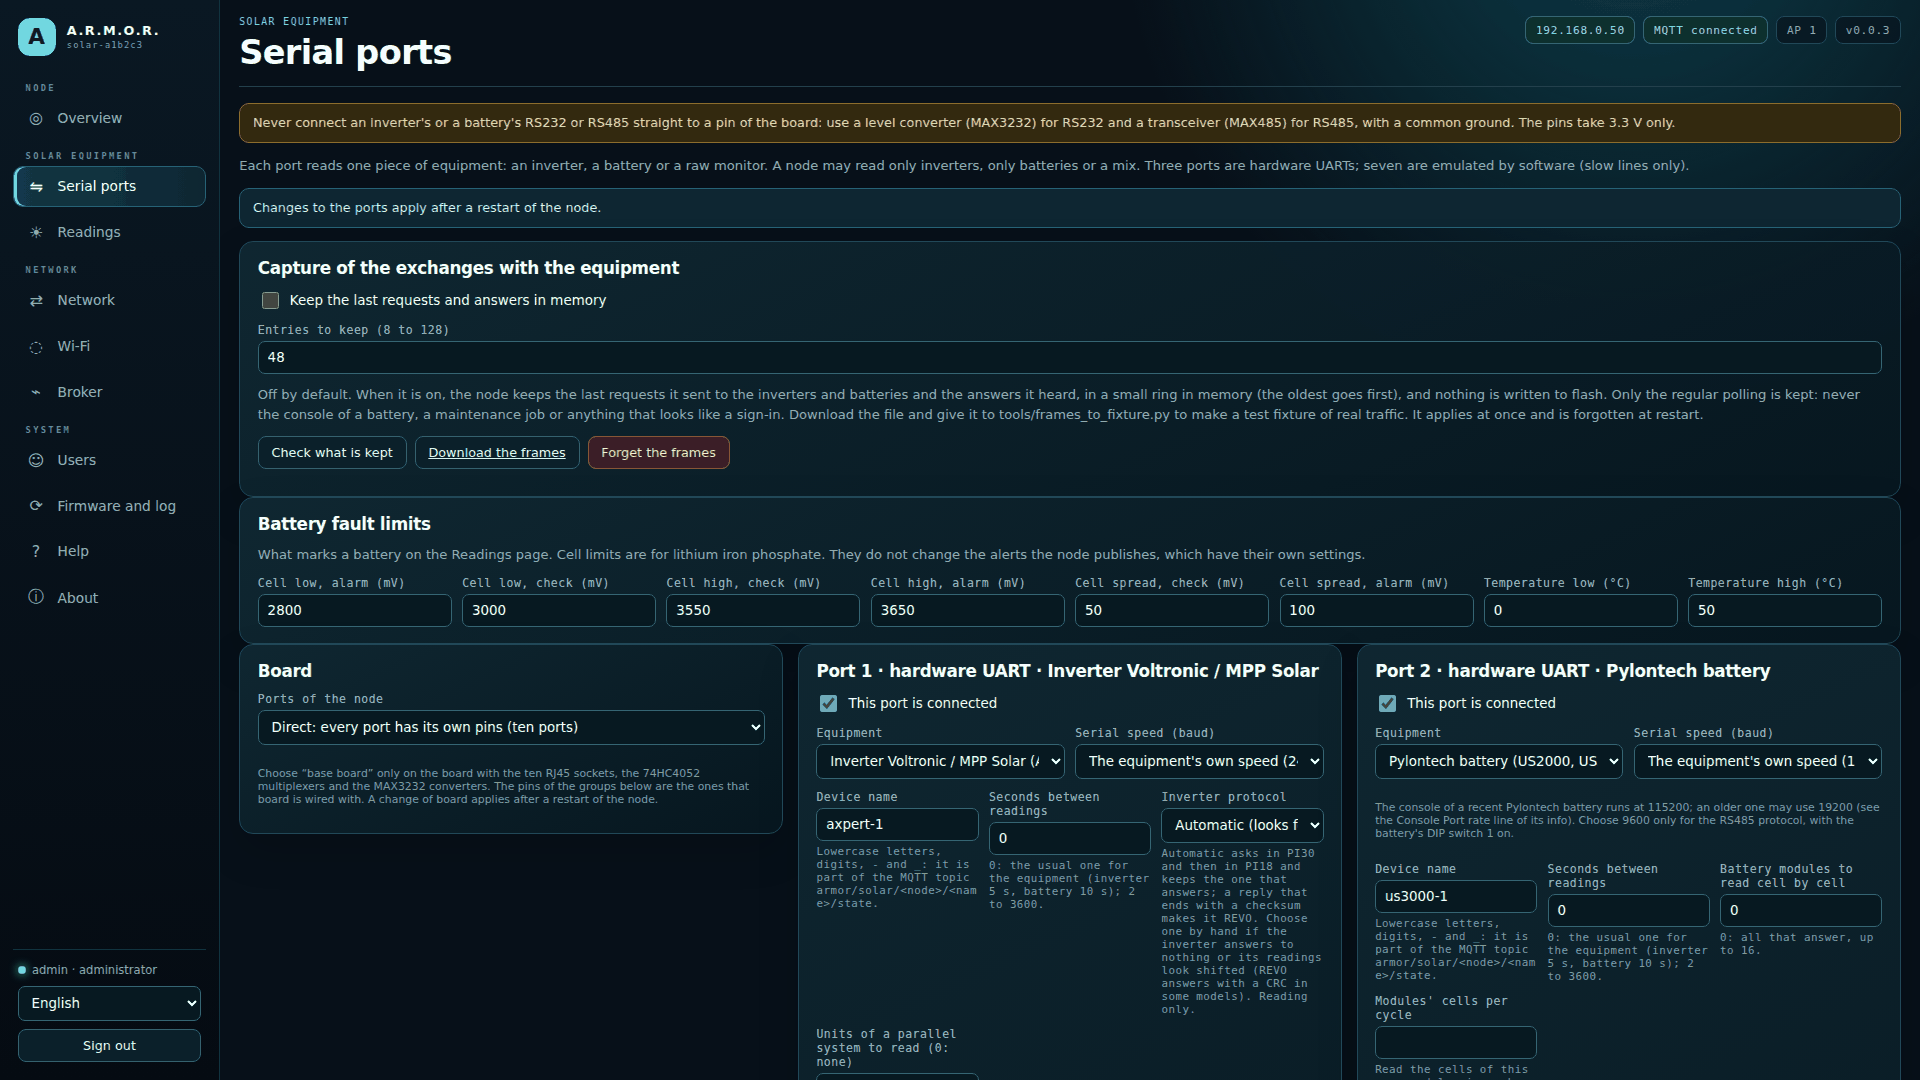
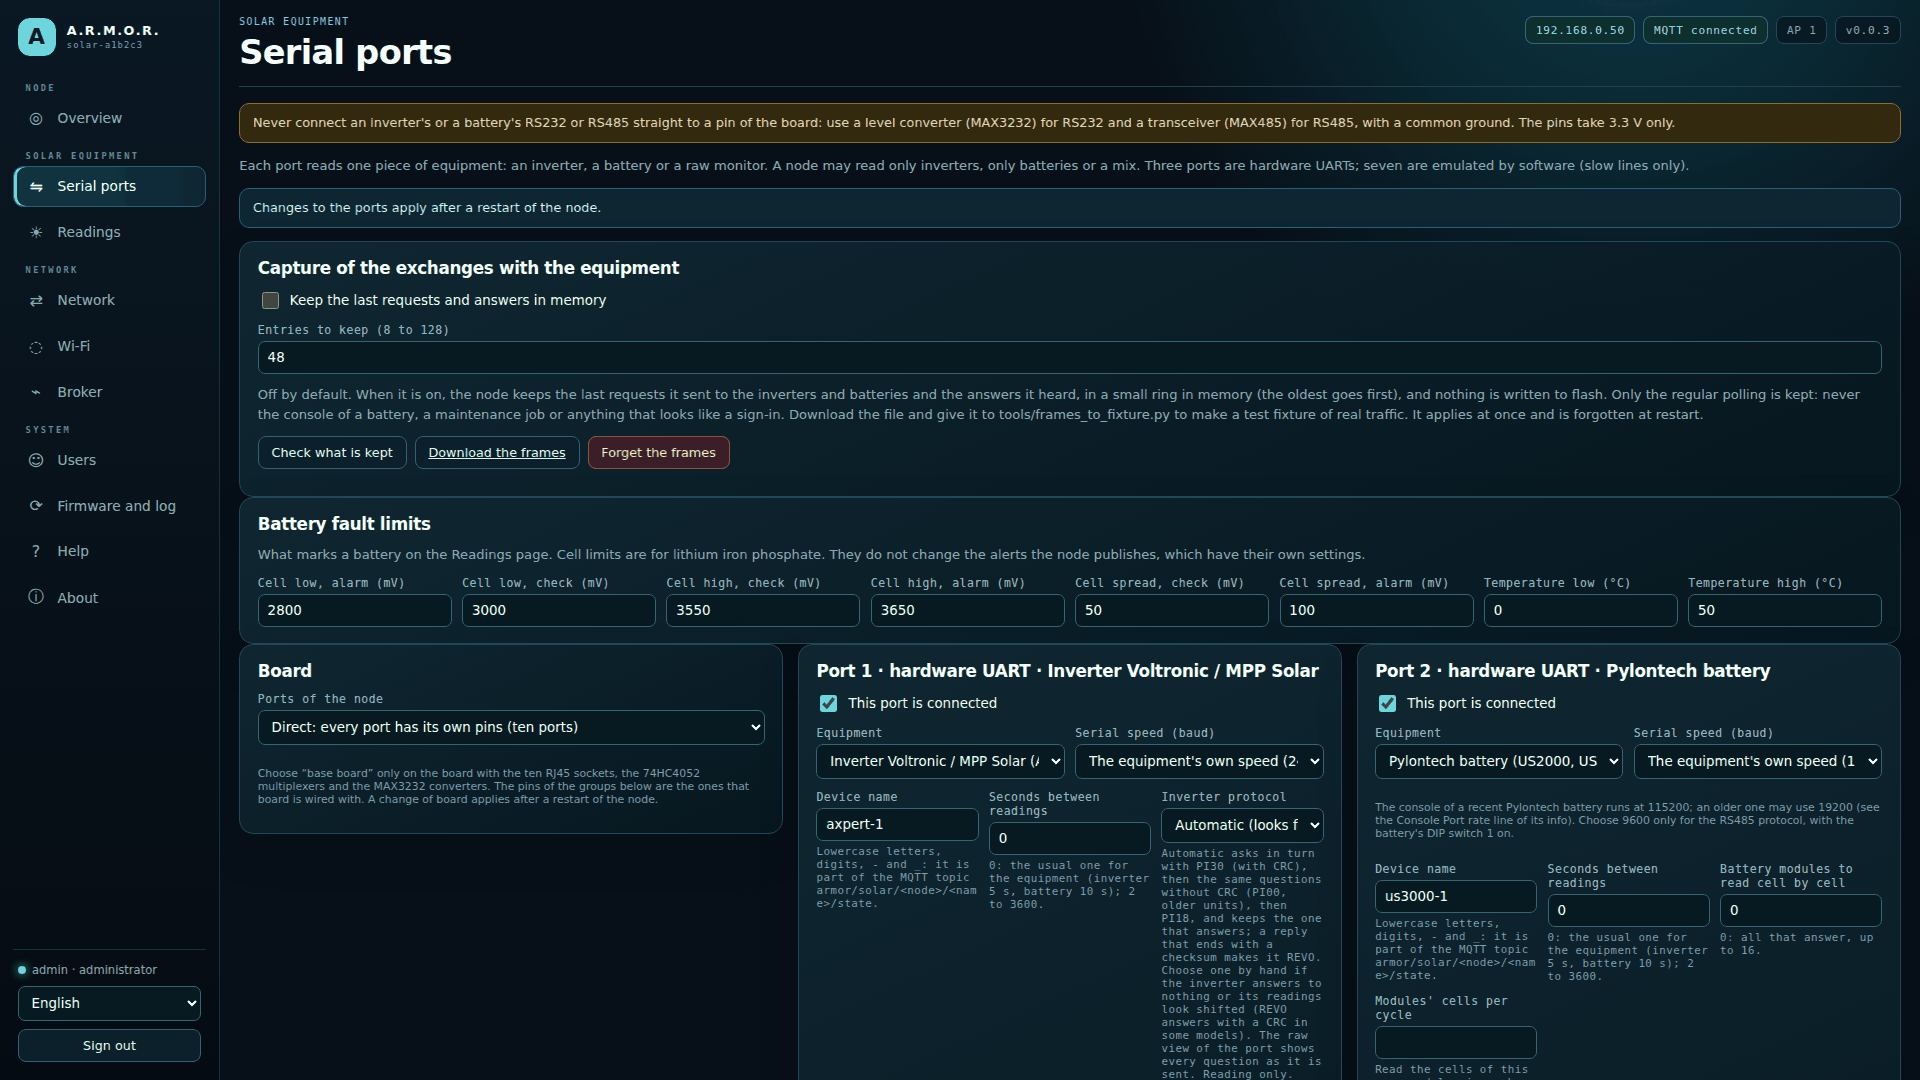
Release 0.7.1 (#64)

diff --git a/CHANGELOG.md b/CHANGELOG.md
@@ -4,6 +4,8 @@ All notable changes to this project are documented here.
 
 ## [Unreleased]
 
+## [0.7.1] - Older inverters without CRC, and the lights of ports 9 and 10
+
 - **Older inverters that expect no CRC can be asked (PI00):** a new inverter protocol, `pi00`, sends each question as its letters and a carriage return, with no CRC, and reads the answer with or without one, in the PI30 arrangement or in the PI00 document's own. *Automatic* now asks in turn with PI30 (with CRC), without CRC, and then PI18. While it is still looking, the raw view of the port shows the exact bytes of every question it sends. Decoded from the public description and tested on a computer with invented frames: not tried on an inverter.
 - **The lights of ports 9 and 10 are no longer swapped on the base board:** the default is now LED 9 on GPIO 3 and LED 10 on GPIO 45, as the board is wired. A configuration already saved on a node does not change by itself: set the two pins on the Ports page of its panel (first to *none* if the panel refuses to give one pin to both).
 

diff --git a/README_jpn.md b/README_jpn.md
@@ -22,7 +22,7 @@
   <img src="https://img.shields.io/badge/Language-C%2B%2B17-00599c.svg" alt="Language">
   <img src="https://img.shields.io/badge/Devices-Voltronic%20%C2%B7%20Pylontech-ffb020.svg" alt="Devices">
   <img src="https://img.shields.io/badge/Tests-35%20host%20programs-2ea44f.svg" alt="Tests">
-  <img src="https://img.shields.io/badge/Version-0.7.0-0f6cbd.svg" alt="Version">
+  <img src="https://img.shields.io/badge/Version-0.7.1-0f6cbd.svg" alt="Version">
   <img src="https://img.shields.io/badge/Maturity-functional-00E5FF.svg" alt="Maturity">
 </p>
 
@@ -36,7 +36,7 @@
 
 | | |
 |---|---|
-| バージョン | `0.7.0` |
+| バージョン | `0.7.1` |
 | 成熟度 | 機能する |
 | 役割 | ESP32-S3 用ソーラーフィールドノード：インバーターとバッテリー（ファミリー：Field Nodes、親：ARMOR-COMMON） |
 | 技術 | C++17, ESP-IDF 5.5.5, ESP32-S3 |

diff --git a/README_deu.md b/README_deu.md
@@ -22,7 +22,7 @@
   <img src="https://img.shields.io/badge/Language-C%2B%2B17-00599c.svg" alt="Sprache">
   <img src="https://img.shields.io/badge/Devices-Voltronic%20%C2%B7%20Pylontech-ffb020.svg" alt="Devices">
   <img src="https://img.shields.io/badge/Tests-35%20host%20programs-2ea44f.svg" alt="Tests">
-  <img src="https://img.shields.io/badge/Version-0.7.0-0f6cbd.svg" alt="Version">
+  <img src="https://img.shields.io/badge/Version-0.7.1-0f6cbd.svg" alt="Version">
   <img src="https://img.shields.io/badge/Maturity-functional-00E5FF.svg" alt="Reifegrad">
 </p>
 
@@ -36,7 +36,7 @@
 
 | | |
 |---|---|
-| Version | `0.7.0` |
+| Version | `0.7.1` |
 | Reifegrad | Funktionsfähig |
 | Rolle | Solar-Feldknoten für ESP32-S3: Wechselrichter und Batterien (Familie: Field Nodes, übergeordnet: ARMOR-COMMON) |
 | Technik | C++17, ESP-IDF 5.5.5, ESP32-S3 |

diff --git a/README_fra.md b/README_fra.md
@@ -22,7 +22,7 @@
   <img src="https://img.shields.io/badge/Language-C%2B%2B17-00599c.svg" alt="Langage">
   <img src="https://img.shields.io/badge/Devices-Voltronic%20%C2%B7%20Pylontech-ffb020.svg" alt="Devices">
   <img src="https://img.shields.io/badge/Tests-35%20host%20programs-2ea44f.svg" alt="Tests">
-  <img src="https://img.shields.io/badge/Version-0.7.0-0f6cbd.svg" alt="Version">
+  <img src="https://img.shields.io/badge/Version-0.7.1-0f6cbd.svg" alt="Version">
   <img src="https://img.shields.io/badge/Maturity-functional-00E5FF.svg" alt="Maturité">
 </p>
 
@@ -36,7 +36,7 @@
 
 | | |
 |---|---|
-| Version | `0.7.0` |
+| Version | `0.7.1` |
 | Maturité | Fonctionnel |
 | Rôle | Nœud de terrain solaire pour ESP32-S3 : onduleurs et batteries (famille : Field Nodes, parent : ARMOR-COMMON) |
 | Technologie | C++17, ESP-IDF 5.5.5, ESP32-S3 |

diff --git a/README_spa.md b/README_spa.md
@@ -22,7 +22,7 @@
   <img src="https://img.shields.io/badge/Language-C%2B%2B17-00599c.svg" alt="Lenguaje">
   <img src="https://img.shields.io/badge/Devices-Voltronic%20%C2%B7%20Pylontech-ffb020.svg" alt="Devices">
   <img src="https://img.shields.io/badge/Tests-35%20host%20programs-2ea44f.svg" alt="Pruebas">
-  <img src="https://img.shields.io/badge/Version-0.7.0-0f6cbd.svg" alt="Versión">
+  <img src="https://img.shields.io/badge/Version-0.7.1-0f6cbd.svg" alt="Versión">
   <img src="https://img.shields.io/badge/Maturity-functional-00E5FF.svg" alt="Madurez">
 </p>
 
@@ -36,7 +36,7 @@
 
 | | |
 |---|---|
-| Versión | `0.7.0` |
+| Versión | `0.7.1` |
 | Madurez | Funcional |
 | Función | Nodo de campo solar para ESP32-S3: inversores y baterías (familia: Field Nodes, padre: ARMOR-COMMON) |
 | Tecnología | C++17, ESP-IDF 5.5.5, ESP32-S3 |

diff --git a/README_ita.md b/README_ita.md
@@ -22,7 +22,7 @@
   <img src="https://img.shields.io/badge/Language-C%2B%2B17-00599c.svg" alt="Linguaggio">
   <img src="https://img.shields.io/badge/Devices-Voltronic%20%C2%B7%20Pylontech-ffb020.svg" alt="Devices">
   <img src="https://img.shields.io/badge/Tests-35%20host%20programs-2ea44f.svg" alt="Test">
-  <img src="https://img.shields.io/badge/Version-0.7.0-0f6cbd.svg" alt="Versione">
+  <img src="https://img.shields.io/badge/Version-0.7.1-0f6cbd.svg" alt="Versione">
   <img src="https://img.shields.io/badge/Maturity-functional-00E5FF.svg" alt="Maturità">
 </p>
 
@@ -36,7 +36,7 @@
 
 | | |
 |---|---|
-| Versione | `0.7.0` |
+| Versione | `0.7.1` |
 | Maturità | Funzionale |
 | Ruolo | Nodo di campo solare per ESP32-S3: inverter e batterie (famiglia: Field Nodes, padre: ARMOR-COMMON) |
 | Tecnologia | C++17, ESP-IDF 5.5.5, ESP32-S3 |

diff --git a/README_por.md b/README_por.md
@@ -22,7 +22,7 @@
   <img src="https://img.shields.io/badge/Language-C%2B%2B17-00599c.svg" alt="Language">
   <img src="https://img.shields.io/badge/Devices-Voltronic%20%C2%B7%20Pylontech-ffb020.svg" alt="Devices">
   <img src="https://img.shields.io/badge/Tests-35%20host%20programs-2ea44f.svg" alt="Tests">
-  <img src="https://img.shields.io/badge/Version-0.7.0-0f6cbd.svg" alt="Version">
+  <img src="https://img.shields.io/badge/Version-0.7.1-0f6cbd.svg" alt="Version">
   <img src="https://img.shields.io/badge/Maturity-functional-00E5FF.svg" alt="Maturity">
 </p>
 
@@ -36,7 +36,7 @@
 
 | | |
 |---|---|
-| Versão | `0.7.0` |
+| Versão | `0.7.1` |
 | Maturidade | Funcional |
 | Função | Nó de campo solar para ESP32-S3: inversores e baterias (família: Field Nodes, pai: ARMOR-COMMON) |
 | Tecnologia | C++17, ESP-IDF 5.5.5, ESP32-S3 |

diff --git a/README_zho.md b/README_zho.md
@@ -22,7 +22,7 @@
   <img src="https://img.shields.io/badge/Language-C%2B%2B17-00599c.svg" alt="Language">
   <img src="https://img.shields.io/badge/Devices-Voltronic%20%C2%B7%20Pylontech-ffb020.svg" alt="Devices">
   <img src="https://img.shields.io/badge/Tests-35%20host%20programs-2ea44f.svg" alt="Tests">
-  <img src="https://img.shields.io/badge/Version-0.7.0-0f6cbd.svg" alt="Version">
+  <img src="https://img.shields.io/badge/Version-0.7.1-0f6cbd.svg" alt="Version">
   <img src="https://img.shields.io/badge/Maturity-functional-00E5FF.svg" alt="Maturity">
 </p>
 
@@ -36,7 +36,7 @@
 
 | | |
 |---|---|
-| 版本 | `0.7.0` |
+| 版本 | `0.7.1` |
 | 成熟度 | 可用 |
 | 角色 | ESP32-S3 太阳能现场节点：逆变器和电池（家族：Field Nodes，上级：ARMOR-COMMON） |
 | 技术栈 | C++17, ESP-IDF 5.5.5, ESP32-S3 |

diff --git a/README.md b/README.md
@@ -22,7 +22,7 @@
   <img src="https://img.shields.io/badge/Language-C%2B%2B17-00599c.svg" alt="Language">
   <img src="https://img.shields.io/badge/Devices-Voltronic%20%C2%B7%20Pylontech-ffb020.svg" alt="Devices">
   <img src="https://img.shields.io/badge/Tests-35%20host%20programs-2ea44f.svg" alt="Tests">
-  <img src="https://img.shields.io/badge/Version-0.7.0-0f6cbd.svg" alt="Version">
+  <img src="https://img.shields.io/badge/Version-0.7.1-0f6cbd.svg" alt="Version">
   <img src="https://img.shields.io/badge/Maturity-functional-00E5FF.svg" alt="Maturity">
 </p>
 
@@ -36,7 +36,7 @@
 
 | | |
 |---|---|
-| Version | `0.7.0` |
+| Version | `0.7.1` |
 | Maturity | Functional |
 | Role | Solar field node for ESP32-S3: inverters and batteries (family: Field Nodes, parent: ARMOR-COMMON) |
 | Stack | C++17, ESP-IDF 5.5.5, ESP32-S3 |
